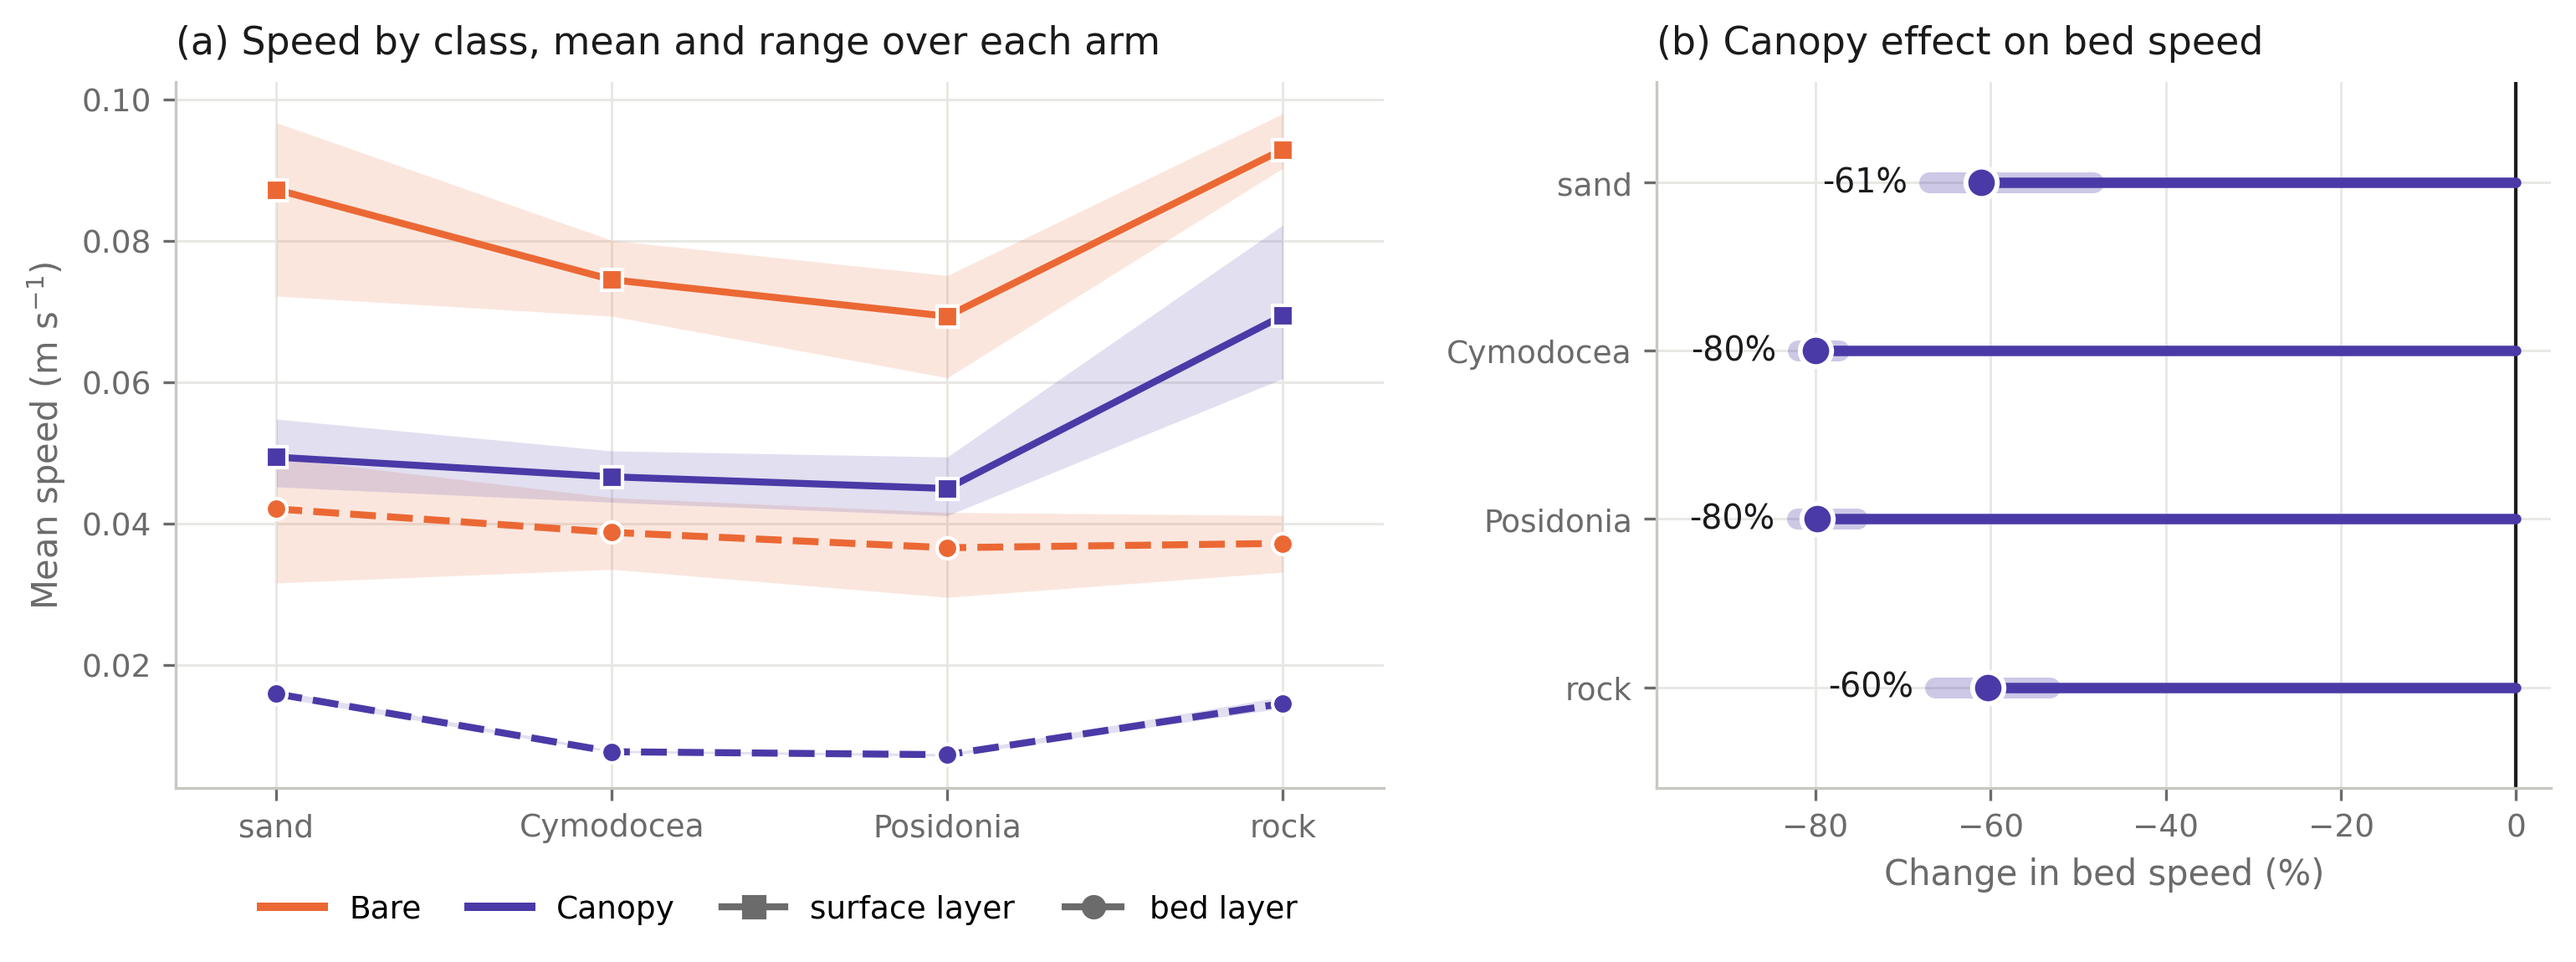
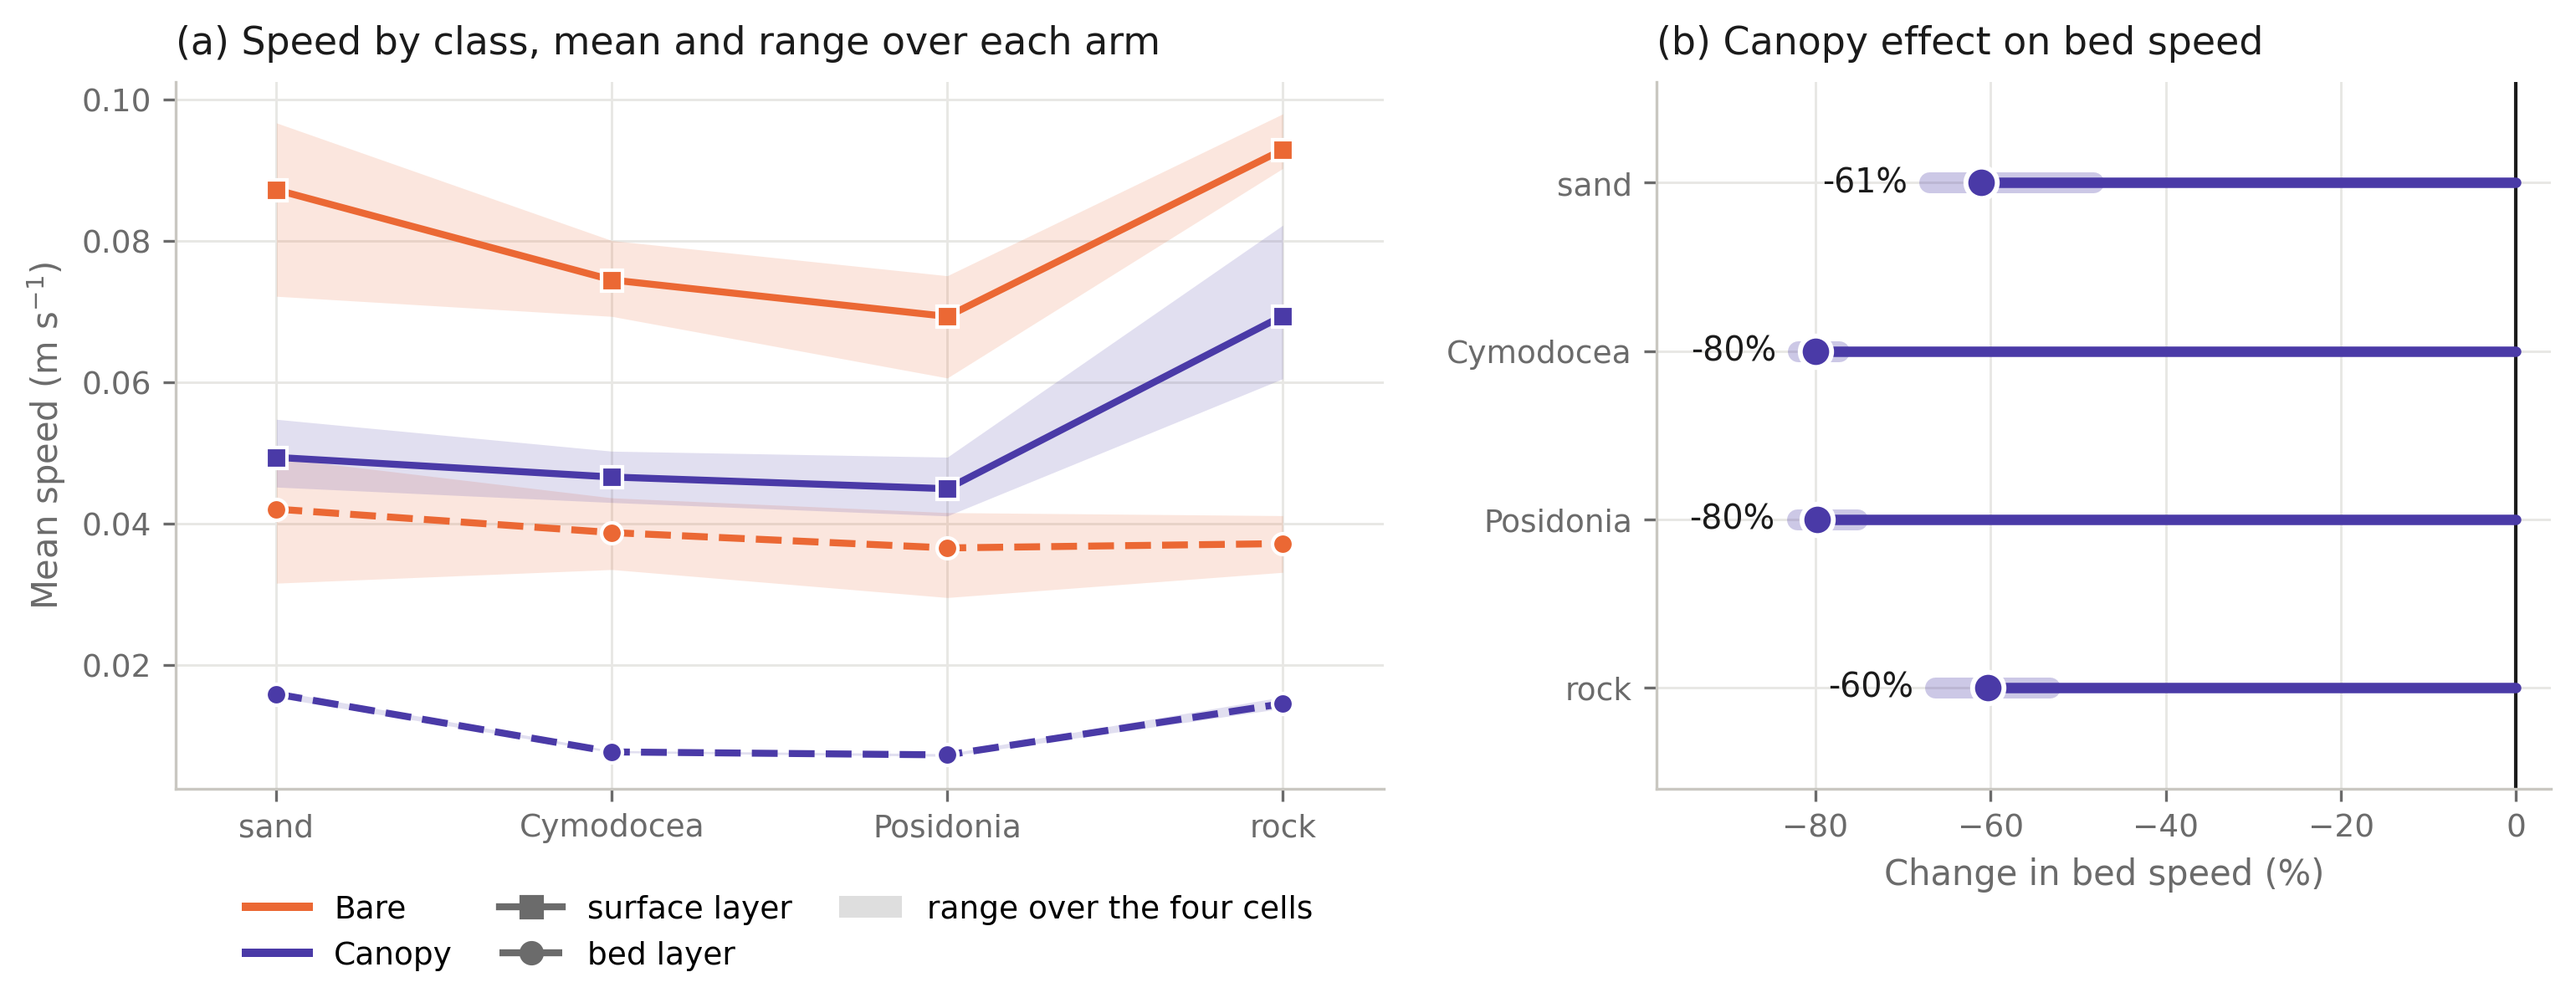
fix(fig7): caption matches the two panels, and the band is in the legend
The caption still described a panel (c) that was removed with the wave result,
and panel (a) drew a shaded band that nothing explained. Added a patch handle
for the range and rewrote the caption for the two panels that exist.

diff --git a/scripts/plot_class_speed_uorb.py b/scripts/plot_class_speed_uorb.py
@@ -32,6 +32,7 @@ import pandas as pd
 import matplotlib as mpl
 import matplotlib.pyplot as plt
 from matplotlib.lines import Line2D
+from matplotlib.patches import Patch
 
 import sys
 sys.path.insert(0, str(Path(__file__).resolve().parent))
@@ -108,9 +109,10 @@ def main():
         Line2D([], [], color=MUTED, lw=2.0, ls='-', marker='s', ms=6,
                label='surface layer'),
         Line2D([], [], color=MUTED, lw=2.0, ls='--', marker='o', ms=6,
-               label='bed layer')],
+               label='bed layer'),
+        Patch(facecolor=MUTED, alpha=0.22, label='range over the four cells')],
         fontsize=9, frameon=False, loc='upper center',
-        bbox_to_anchor=(0.5, -0.11), ncol=4, columnspacing=1.5)
+        bbox_to_anchor=(0.5, -0.11), ncol=3, columnspacing=1.5)
     style(ax)
 
     # (b) canopy effect on bed speed, averaged over the four cells

diff --git a/manuscript/sections/04_results.tex b/manuscript/sections/04_results.tex
@@ -287,10 +287,10 @@ returns to what that leaves unresolved.
 \begin{figure}[H]
   \centering
   \includegraphics[width=\textwidth]{class_speed_uorb}
-  \caption{Flow and wave response by seagrass class in the lagoon interior.
-  (a) Mean bed and surface speed by class for every member, the full member
-  drawn opaque. (b) Change in mean bed speed from the bare to the vegetated
-  member on a fixed bed. (c) The same for mean wave orbital velocity at the
-  bed.}
+  \caption{Flow response by seagrass class in the lagoon interior. (a) Mean
+  speed in the surface and bed layers, with the line giving the mean over the
+  four configurations of each arm and the band their range. (b) Change in mean
+  bed speed on introducing the canopy, with the marker giving the mean over the
+  four cells of the design and the band their range.}
   \label{fig:classes}
 \end{figure}
